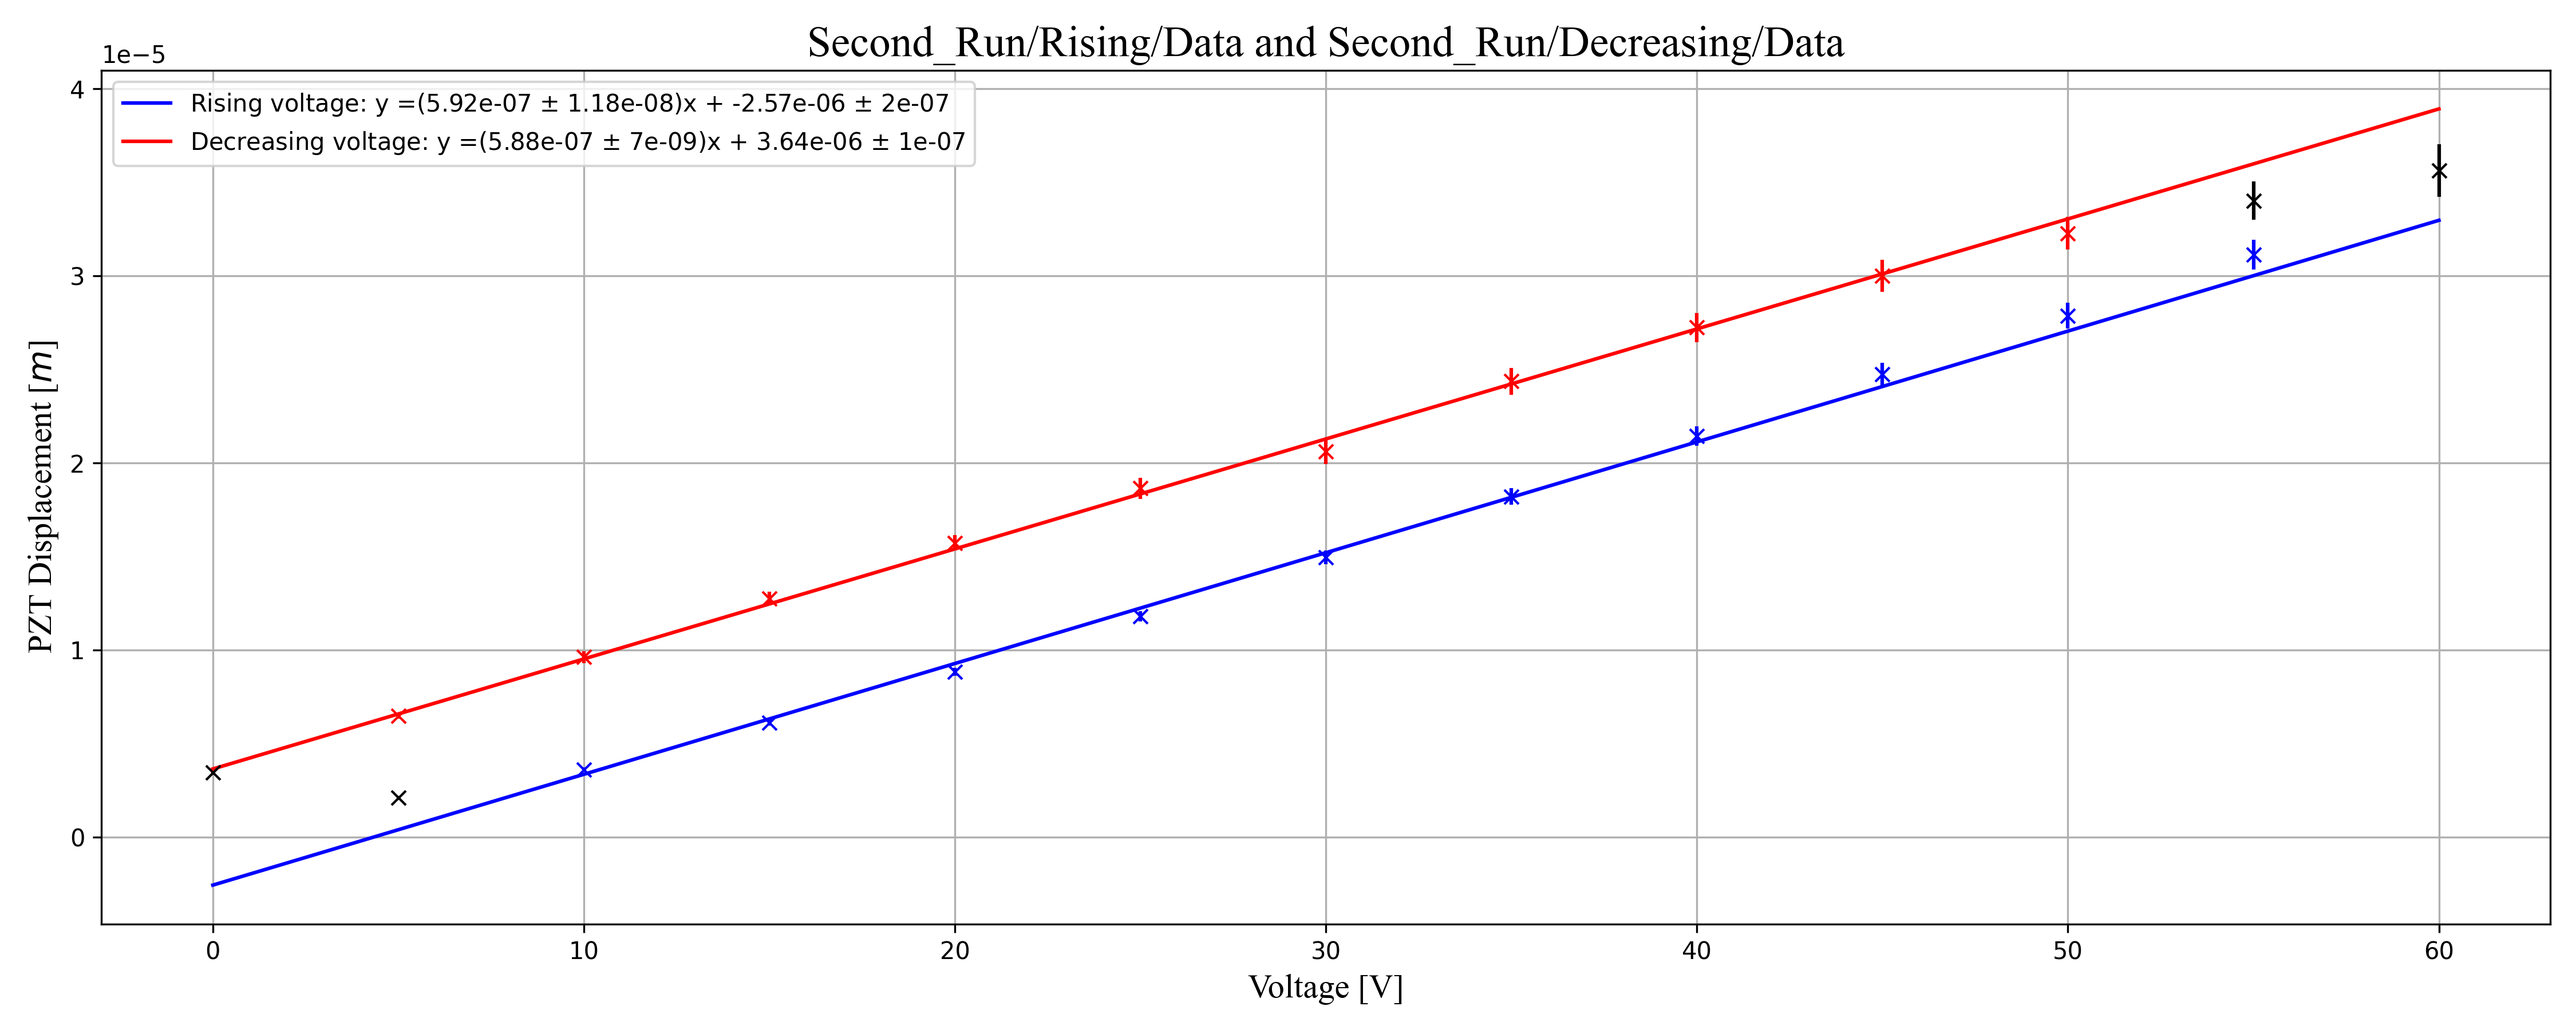
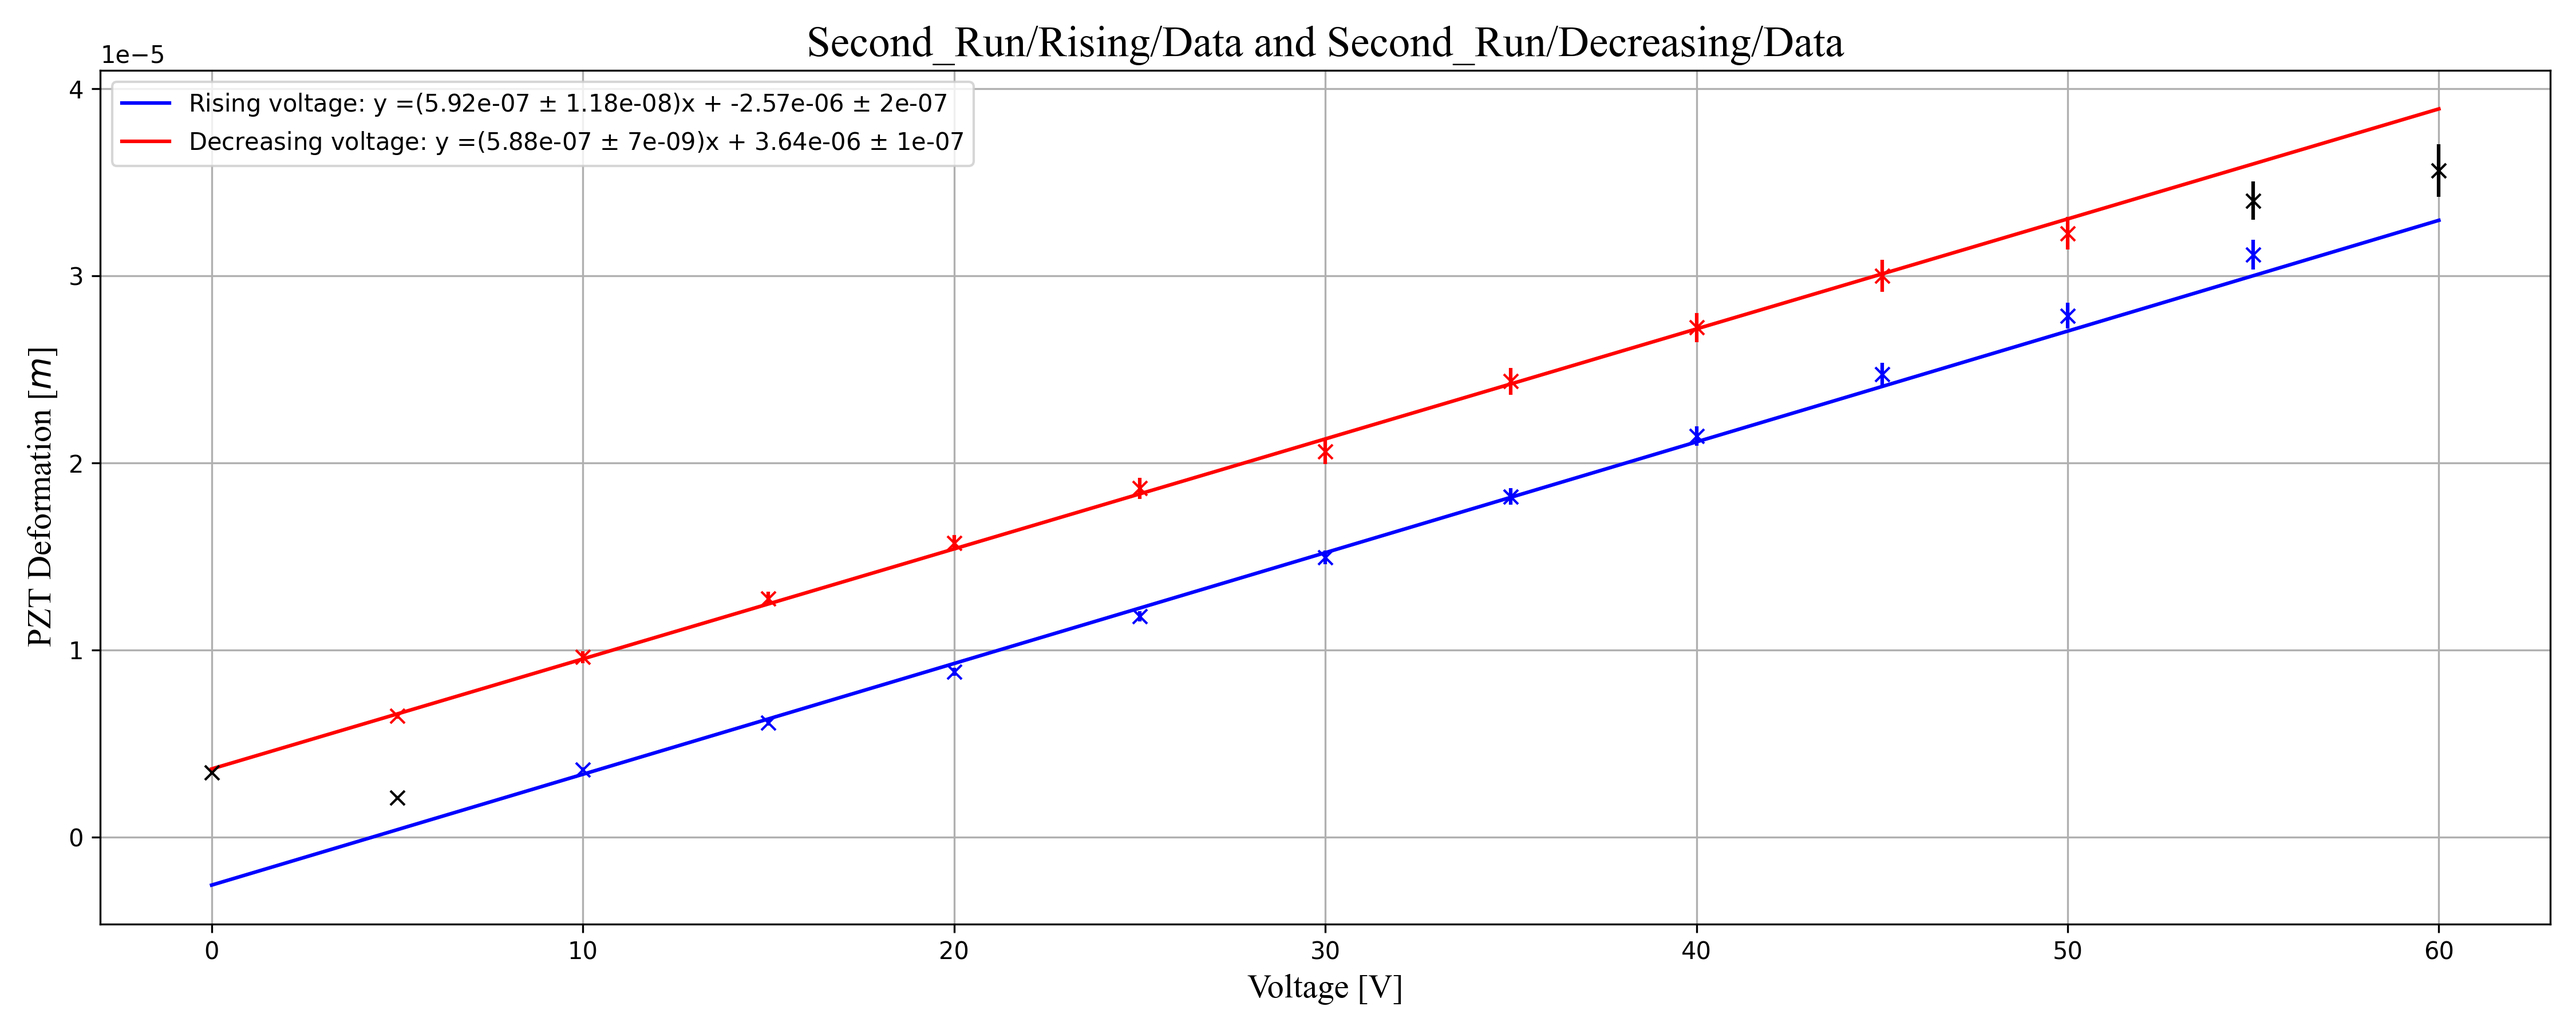
slight tweaks

diff --git a/TVHolography.py b/TVHolography.py
@@ -88,10 +88,11 @@ def draw_plot(title, data, savgol_parameter, filename,
         mean_peak.append(mean)
 
     fringe_spacing = np.diff(mean_peak)
-    fringe_spacing_uncertainty = []
-    for i in range(len(mean_peak) - 1):
-        uncertainty = np.sqrt(sigmas[i]**2 + sigmas[i + 1]**2)
-        fringe_spacing_uncertainty.append(uncertainty)
+    
+    # fringe_spacing_uncertainty = []
+    # for i in range(len(mean_peak) - 1):
+    #     uncertainty = np.sqrt(sigmas[i]**2 + sigmas[i + 1]**2)
+    #     fringe_spacing_uncertainty.append(uncertainty)
 
     # mean_fringe_spacing, mean_fringe_spacing_sigma = weighted_arithmetic_mean(
     #     fringe_spacing, fringe_spacing_uncertainty)
@@ -203,11 +204,11 @@ def residual_plot(data1, data2):
     rising_ax.set_xlabel("Voltage [V]", fontsize=14,
                          fontfamily='times new roman')
     rising_ax.set_ylabel(
-        "Displacement [m]", fontsize=14, fontfamily='times new roman')
+        "Deformation [m]", fontsize=14, fontfamily='times new roman')
     decreasing_ax.set_xlabel(
         "Voltage [V]", fontsize=14, fontfamily='times new roman')
     decreasing_ax.set_ylabel(
-        "Displacement [m]", fontsize=14, fontfamily='times new roman')
+        "Deformation [m]", fontsize=14, fontfamily='times new roman')
 
     m_1, c_1, _, _ = find_linear_parameters(data1)
     m_2, c_2, _, _ = find_linear_parameters(data2)
@@ -300,7 +301,7 @@ def main():
 
     plot_averages(np.sort(displacement_1, axis=0),
                   np.sort(displacement_2, axis=0),
-                  "PZT Displacement [$m$]",
+                  "PZT Deformation [$m$]",
                   SAVE_FOLDER_AVERAGES,
                   "PZT displacement against Voltage",
                   False)
